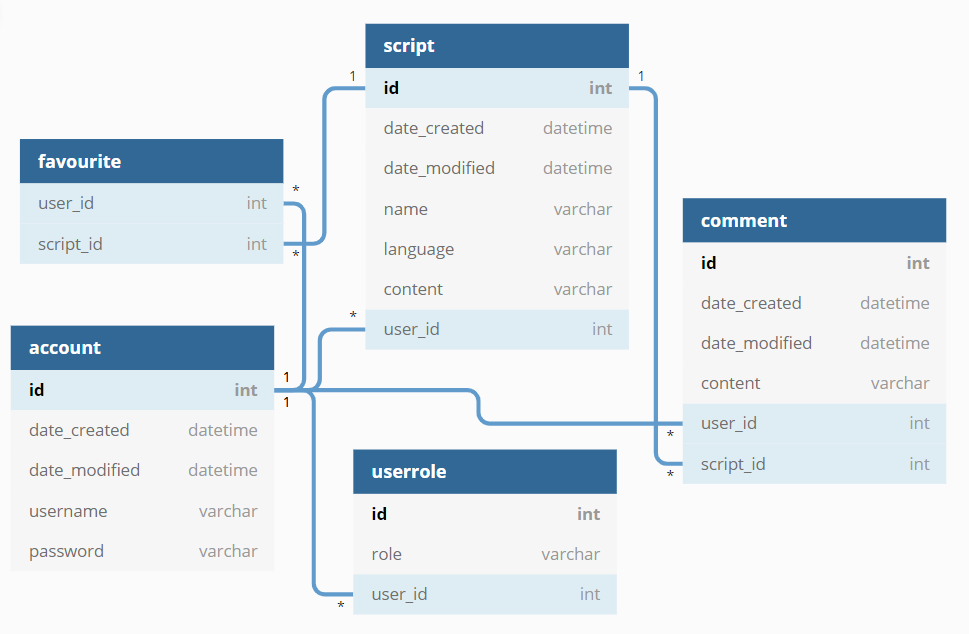
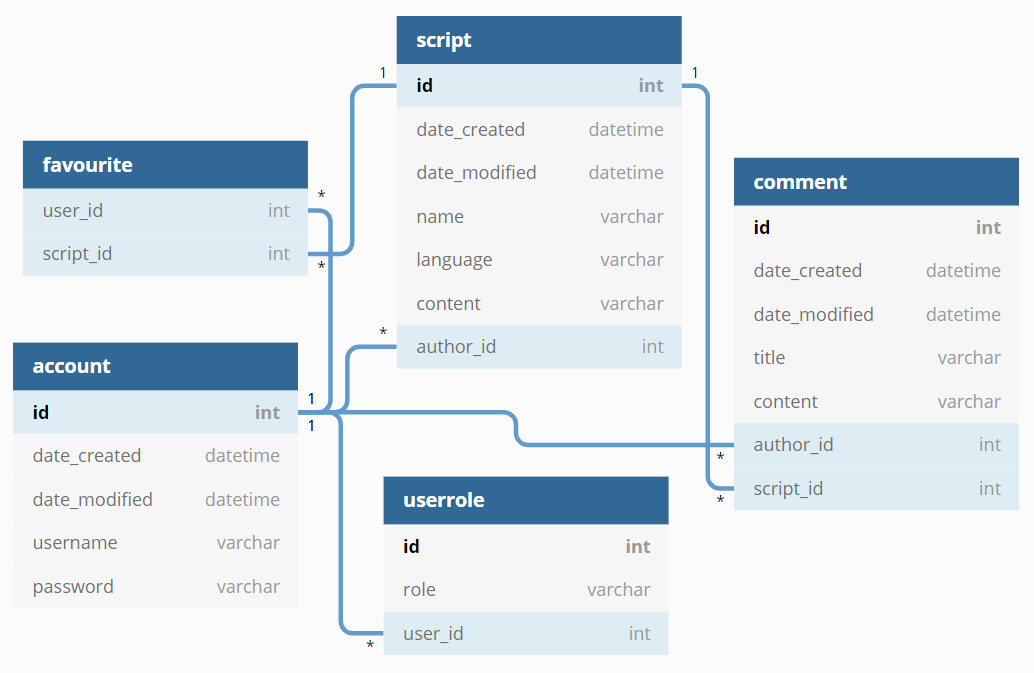
Small fixes

diff --git a/application/templates/errors/error404.html b/application/templates/errors/error404.html
@@ -3,5 +3,7 @@
 {% block body %}
 
 We could not find what you're looking for, sorry :(
+<br><br>
+Please check that you have the right address.
 
 {% endblock %}

diff --git a/application/scripts/views.py b/application/scripts/views.py
@@ -85,9 +85,8 @@ def script_create():
 
     s = Script(form.name.data,
             form.language.data,
-            form.content.data)
-    s.author_id = current_user.id
-    
+            form.content.data,
+            current_user.id)
 
     db.session().add(s)
     db.session().commit()
@@ -139,9 +138,9 @@ def comment_create(script_id):
         return redirect(url_for("script_show", script_id=script_id))
     
     c = Comment(form.title.data,
-                form.content.data)
-    c.author_id = current_user.id
-    c.script_id = script_id
+                form.content.data,
+                current_user.id,
+                script_id)
 
     db.session().add(c)
     db.session().commit()

diff --git a/application/scripts/models.py b/application/scripts/models.py
@@ -12,7 +12,8 @@ class Script(Base):
     comments = db.relationship("Comment", backref='script', lazy=True)
     favourites = db.relationship("Favourite", backref='script', lazy=True)
 
-    def __init__(self, name, language, content):
+    def __init__(self, name, language, content, author_id):
         self.name = name
         self.language = language
         self.content = content
+        self.author_id = author_id

diff --git a/application/comments/models.py b/application/comments/models.py
@@ -11,8 +11,10 @@ class Comment(Base):
                           db.ForeignKey('script.id'),
                           nullable=False)
 
-    def __init__(self, title, content):
+    def __init__(self, title, content, author_id, script_id):
         self.title = title
         self.content = content
+        self.author_id = author_id
+        self.script_id = script_id
 
     
